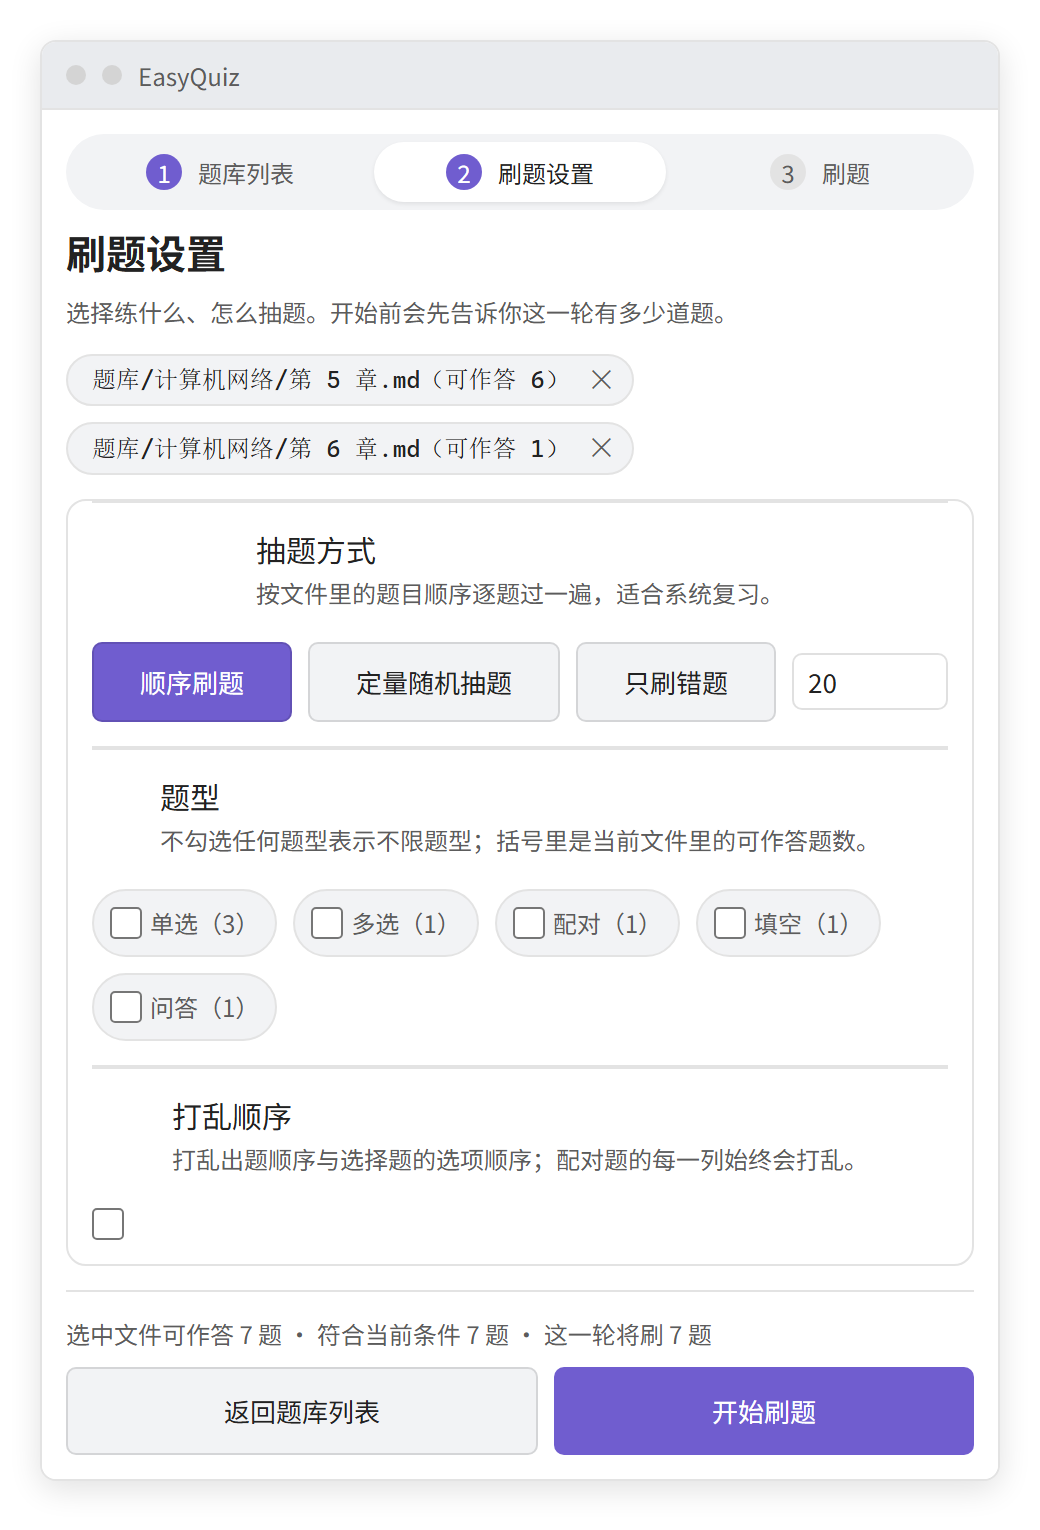
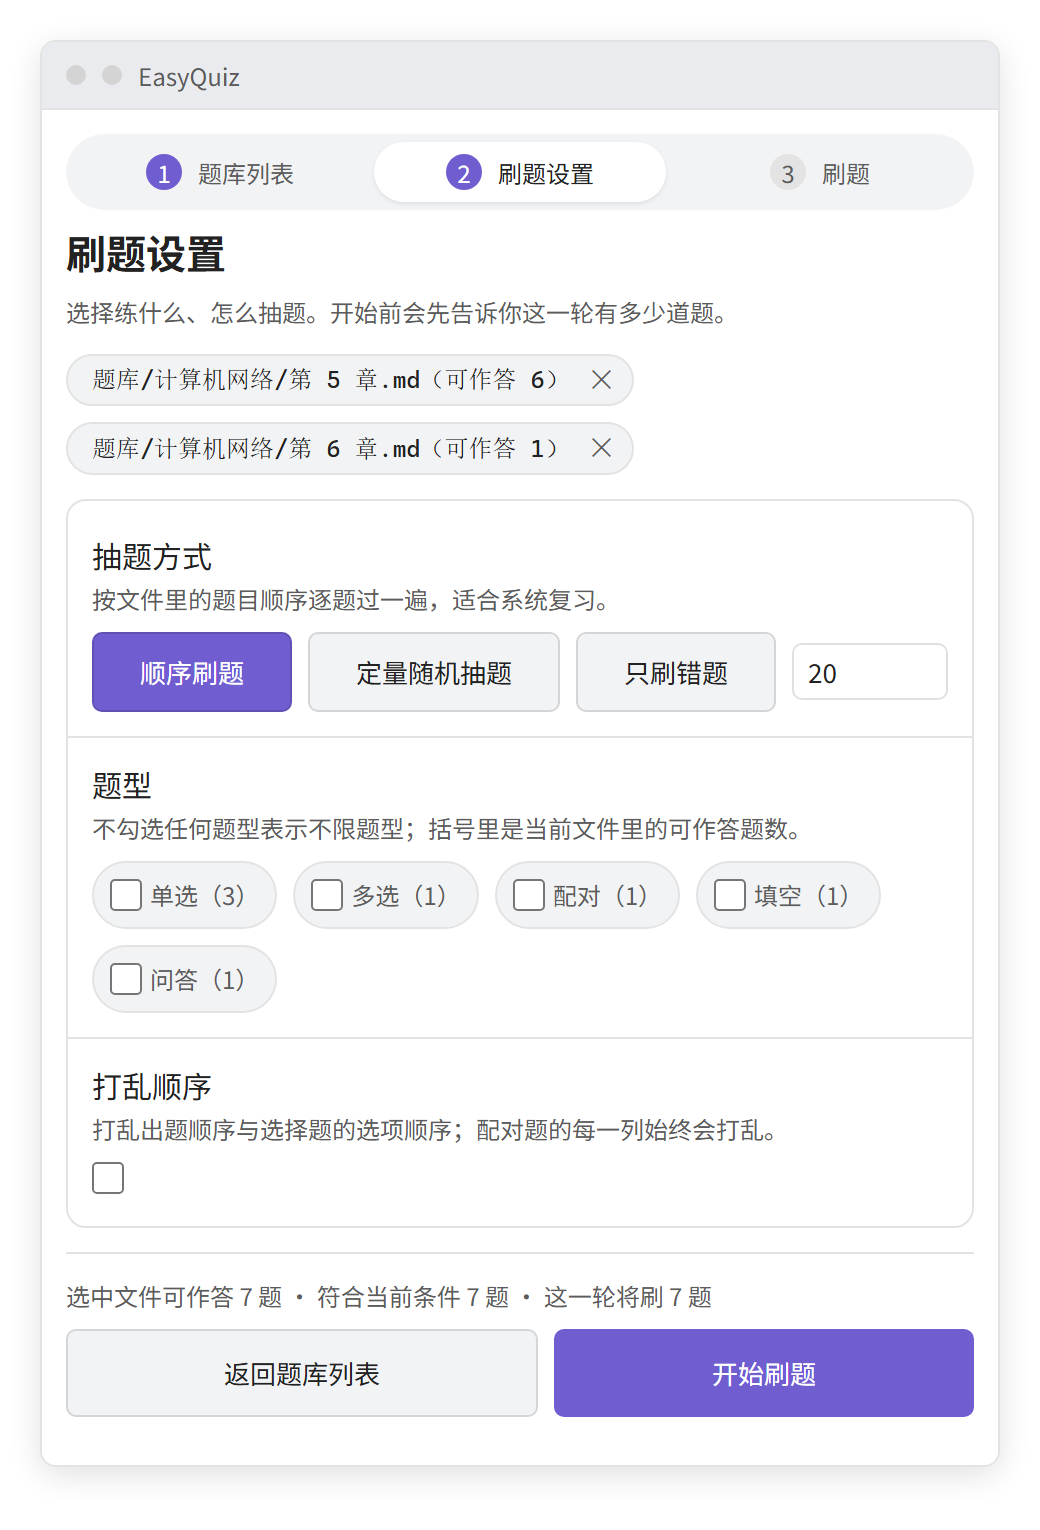
fix(practice): stop the sticky bars from floating and give the settings panel real padding
Two complaints, one root cause each.

**The footer left a strip of background under it.** `.easy-quiz-practice` is
itself the scroll container and carried `padding-bottom: 16px`. A
`position: sticky; bottom: 0` element sticks at the container's *padding box*
edge, so the footer sat 16px above the real bottom and never covered that
band - 16px on desktop, 12px inside the narrow-screen breakpoint. The breathing
space now lives in the bar's own padding (`padding: var(--eqq-3) 0`), the
container keeps no bottom padding, and the bar reaches the edge. The practice
page's `__nav` had the identical defect and gets the same treatment. The now
pointless `scroll-padding-block-end` on the container is dropped with it.

**The settings panel was lopsided.** Obsidian 1.11 made `.setting-item` a card
of its own: `padding: 16px; margin-bottom: 8px`, with nothing on top. Dropped
into `__panel` that margin produced a gap below every row and none above, while
the panel's own `padding: 0 16px` stacked onto the row's 16px and pushed the
setting name 32px clear of the card edge. The row now owns its spacing:
`margin-bottom: 0`, symmetric `padding: 12px 16px`, first and last rows
carrying 16px top/bottom so text never touches the rounded corner, and the
panel contributes no padding of its own.

The README screenshot generator had `styles.css` *before* `theme.css`, the
reverse of Obsidian (app.css, then plugin styles). The approximate
[…]

Changed region(s): [[0.0615, 0.3379, 0.9538, 0.9523], [0.0615, 0.9216, 0.0923, 0.9523]]

diff --git a/styles.css b/styles.css
@@ -501,10 +501,14 @@
 	width: 100%;
 	max-width: 860px;
 	margin-inline: auto;
-	padding: var(--eqq-3) var(--eqq-3) var(--eqq-4);
+	/*
+	 * 底部不留 padding：页脚/导航是 `position: sticky; bottom: 0`，它停在
+	 * **滚动容器的 padding box** 内沿——容器有 16px 底部留白时，这条固定操作条
+	 * 就等于悬在离底边 16px 的地方，露出一条空隙。留白改由操作条自己的 padding
+	 * 承担（见 `__footer` / `__nav`），它就能真正贴住底边。
+	 */
+	padding: var(--eqq-3) var(--eqq-3) 0;
 	overflow-y: auto;
-	/* 滚动到底时不要让最后一行贴着边缘 */
-	scroll-padding-block-end: var(--eqq-4);
 }
 
 /* ------------------------------------------------------ 顶部步骤 */
@@ -870,6 +874,9 @@
 /*
  * 主要操作停在滚动容器底部：长列表滚到底就能直接出发，
  * 手机上也不必再翻回顶部找按钮。
+ *
+ * 上下都用 padding 而不是外边距：它贴在滚动容器内沿，底部的呼吸空间必须算进
+ * 自己的盒子里，否则滚动到底时按钮会紧贴窗口下边缘。
  */
 .easy-quiz-practice__footer {
 	display: flex;
@@ -880,7 +887,7 @@
 	bottom: 0;
 	z-index: 2;
 	margin-top: auto;
-	padding: var(--eqq-3) 0 0;
+	padding: var(--eqq-3) 0;
 	background: var(--background-primary);
 	border-top: 1px solid var(--eqq-line);
 }
@@ -937,26 +944,49 @@
 	background: transparent;
 }
 
-/* 三个设置行合成一张卡片：视觉上属于同一个「这一轮怎么抽题」的决定 */
+/*
+ * 三个设置行合成一张卡片：视觉上属于同一个「这一轮怎么抽题」的决定。
+ *
+ * 四周留白交给每一行自己的 padding（见下），面板不再额外加左右 padding：
+ * 之前面板给 16px、设置行给 0，行内的设置名因此被推到离卡片边缘 16px 的位置，
+ * 上半部分又完全没有内边距，看起来像是"内容贴着卡片上沿、只有下面留了空"。
+ */
 .easy-quiz-practice__panel {
 	display: flex;
 	flex-direction: column;
 	border: 1px solid var(--eqq-line);
 	border-radius: var(--eqq-r-md);
 	background: var(--eqq-surface);
-	padding: 0 var(--eqq-4);
+	padding: 0;
 }
 
-/* 设置行沿用 Obsidian 的 Setting 布局，只收紧间距并把相邻行用发丝线分开 */
+/*
+ * 设置行沿用 Obsidian 的 Setting 布局，但要压住它自己的盒子：
+ *
+ * Obsidian 的 `.setting-item` 是 `padding: 16px; margin-bottom: 8px`（1.11 起），
+ * 那个 8px 只加在下面——放进卡片里就成了"下面多一截、上面没有"的不对称留白，
+ * 左右还会叠上卡片自己的 padding。这里把外边距清零、改为上下对称的 padding，
+ * 相邻两行之间再靠发丝线分开；首尾行多留一点，避免文字贴着卡片圆角。
+ */
 .easy-quiz-practice__setting {
-	padding: var(--eqq-3) 0;
+	padding: var(--eqq-3) var(--eqq-4);
+	margin-bottom: 0;
 	/* Obsidian 自身给 .setting-item 加了上边框，这里改用下边框，避免出现双线 */
 	border-top: none;
 	border-bottom: 1px solid var(--eqq-line);
 }
 
+.easy-quiz-practice__setting:first-child {
+	border-top-left-radius: var(--eqq-r-md);
+	border-top-right-radius: var(--eqq-r-md);
+	padding-top: var(--eqq-4);
+}
+
 .easy-quiz-practice__setting:last-child {
 	border-bottom: none;
+	border-bottom-left-radius: var(--eqq-r-md);
+	border-bottom-right-radius: var(--eqq-r-md);
+	padding-bottom: var(--eqq-4);
 }
 
 .easy-quiz-practice__modes,
@@ -1062,7 +1092,8 @@
 	position: sticky;
 	bottom: 0;
 	z-index: 2;
-	padding: var(--eqq-3) 0 var(--eqq-2);
+	/* 同 `__footer`：底部留白算进自己的盒子，才能真正贴住底边 */
+	padding: var(--eqq-3) 0;
 	background: var(--background-primary);
 }
 
@@ -1217,7 +1248,7 @@
 @media (max-width: 640px) {
 	.easy-quiz-practice {
 		gap: var(--eqq-2);
-		padding: var(--eqq-2) var(--eqq-2) var(--eqq-3);
+		padding: var(--eqq-2) var(--eqq-2) 0;
 	}
 
 	.easy-quiz-card {
@@ -1324,14 +1355,20 @@
 	}
 
 	/* 设置行改成上下排列，控件占满整行，不再和说明文字抢宽度 */
-	.easy-quiz-practice__panel {
-		padding: 0 var(--eqq-3);
-	}
-
 	.easy-quiz-practice__setting {
 		flex-direction: column;
 		align-items: stretch;
 		gap: var(--eqq-2);
+		/* 窄屏窗口本身只有 8px 外边距，行内留白收到 12px 才不会显得挤 */
+		padding: var(--eqq-3);
+	}
+
+	.easy-quiz-practice__setting:first-child {
+		padding-top: var(--eqq-4);
+	}
+
+	.easy-quiz-practice__setting:last-child {
+		padding-bottom: var(--eqq-4);
 	}
 
 	.easy-quiz-practice__setting .setting-item-info {

diff --git a/tools/readme-assets/browser/index.html b/tools/readme-assets/browser/index.html
@@ -3,10 +3,12 @@
 <head>
 <meta charset="utf-8" />
 <title>EasyQuiz README asset generator</title>
-<!-- 插件自己的样式表：截图必须用它，否则截的不是真实界面 -->
-<link rel="stylesheet" href="../../../styles.css" />
 <!-- Obsidian 默认主题的近似实现（按钮、setting 行、Markdown 排版） -->
 <link rel="stylesheet" href="../theme.css" />
+<!-- 插件自己的样式表：截图必须用它，否则截的不是真实界面。
+     必须排在主题之后——Obsidian 里插件样式就是在 app.css 之后加载的，
+     顺序反过来会让 theme.css 里的近似规则盖掉插件的真实规则。 -->
+<link rel="stylesheet" href="../../../styles.css" />
 <!-- 外壳：阅读视图笔记、侧边栏窗口、对话框 -->
 <link rel="stylesheet" href="../shell.css" />
 </head>
